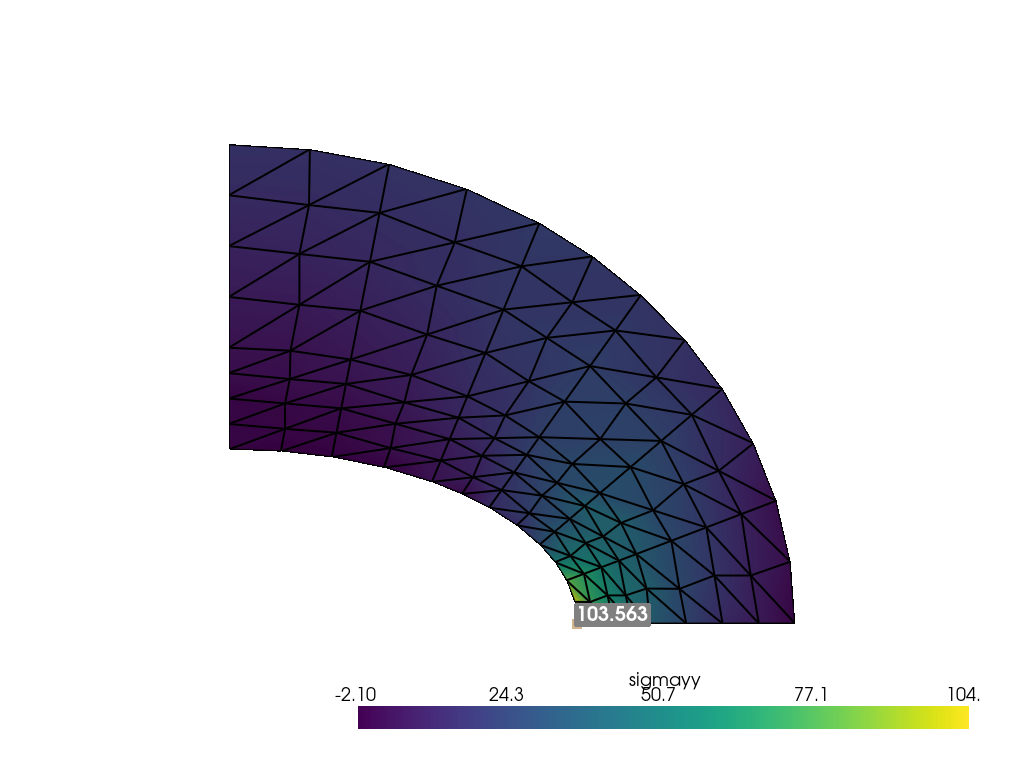
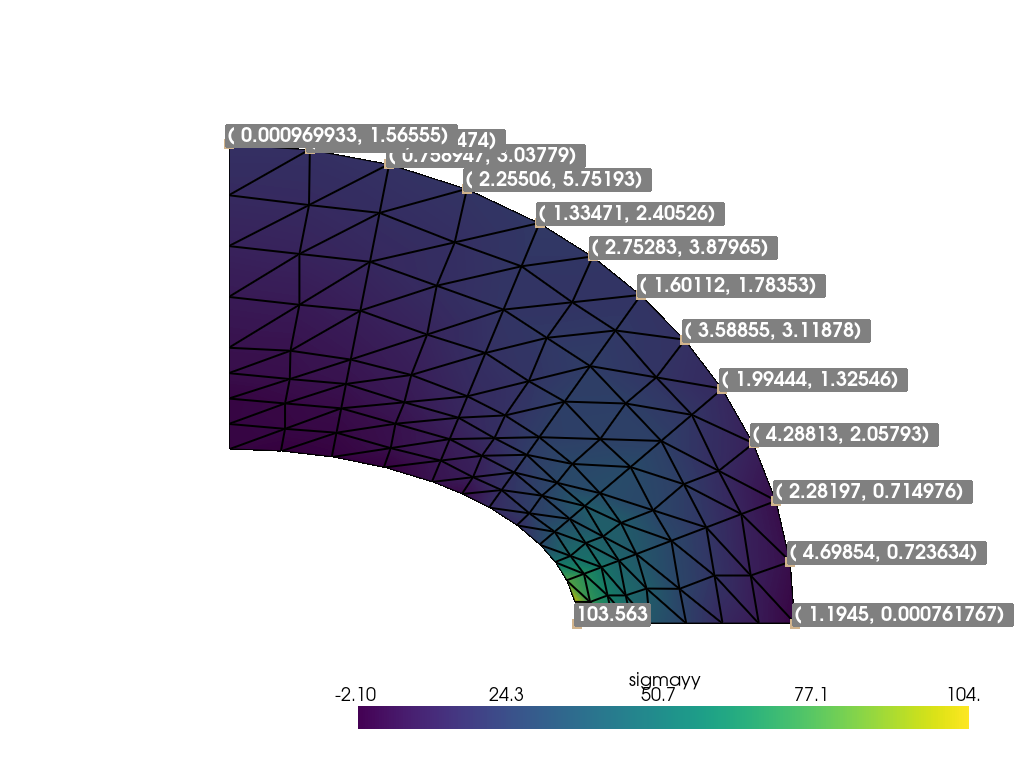
Add fine-triangle-2d.py output

diff --git a/benchmarks_data/structure/elliptic_membrane/GetFEM/fine-triangle-2d.py b/benchmarks_data/structure/elliptic_membrane/GetFEM/fine-triangle-2d.py
@@ -45,6 +45,8 @@ md.add_initialized_data("nu", nu)
 md.add_isotropic_linearized_elasticity_pstress_brick(mim, "u", "E", "nu")
 md.add_normal_source_term_brick(mim, "u", "NeumannData", OUTER_BOUND)
 # md.add_source_term(mim, "(Reshape(NeumannData,qdim(u),meshdim)*Normal).Test_u", OUTER_BOUND)
+md.assembly()
+RHS = md.rhs()
 md.add_initialized_data("r1", [0, 0])
 md.add_initialized_data("r2", [0, 0])
 md.add_initialized_data("H1", [[1, 0], [0, 0]])
@@ -59,16 +61,28 @@ md.solve()
 U = md.variable("u")
 grad_u = gf.compute_gradient(mfu, U, mfd)
 sigmayy = clambda * (grad_u[0, 0] + grad_u[1, 1]) + 2.0 * mu * grad_u[1, 1]
-mfu.export_to_vtk("fine-triangle-2d.vtk", "ascii", mfd, sigmayy, "sigmayy")
+mfu.export_to_vtk(
+    "fine-triangle-2d.vtk", "ascii", mfd, sigmayy, "sigmayy", mfu, RHS, "RHS"
+)
 
 m = pv.read("fine-triangle-2d.vtk")
 pl = pv.Plotter()
 pl.add_mesh(m, show_edges=True, line_width=2, scalars="sigmayy")
 pl.add_point_labels(
-    m.points[np.all(m.points == [2.0, 0.0, 0.0], axis=1)],
-    [str(m["sigmayy"][np.all(m.points == [2.0, 0.0, 0.0], axis=1)][0])],
+    m.points[21],
+    [str(m["sigmayy"][21])],
     point_size=10,
     font_size=20,
     text_color="white",
 )
+
+for i in [50, 53, 55, 62, 64, 70, 73, 75, 84, 94, 95, 102, 103]:
+    pl.add_point_labels(
+        m.points[i],
+        ["( " + str(m["RHS"][:, 0][i]) + ", " + str(m["RHS"][:, 1][i]) + ") "],
+        point_size=10,
+        font_size=20,
+        text_color="white",
+    )
+
 pl.show(cpos="xy", screenshot="fine-triangle-2d.png")

diff --git a/benchmarks_data/structure/elliptic_membrane/GetFEM/fine-quadrilateron-2d.py b/benchmarks_data/structure/elliptic_membrane/GetFEM/fine-quadrilateron-2d.py
@@ -69,7 +69,11 @@ m = pv.read("fine-quadrilateron-2d.vtk")
 pl = pv.Plotter()
 pl.add_mesh(m, show_edges=True, line_width=2, scalars="sigmayy")
 pl.add_point_labels(
-    m.points[20], [str(m["sigmayy"][20])], point_size=10, font_size=20, text_color="white",
+    m.points[20],
+    [str(m["sigmayy"][20])],
+    point_size=10,
+    font_size=20,
+    text_color="white",
 )
 
 for i in [42, 45, 47, 52, 54, 61, 63, 70, 84]:
